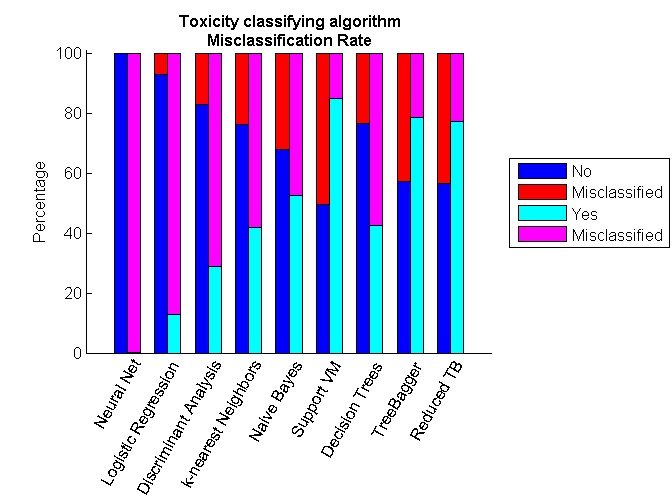
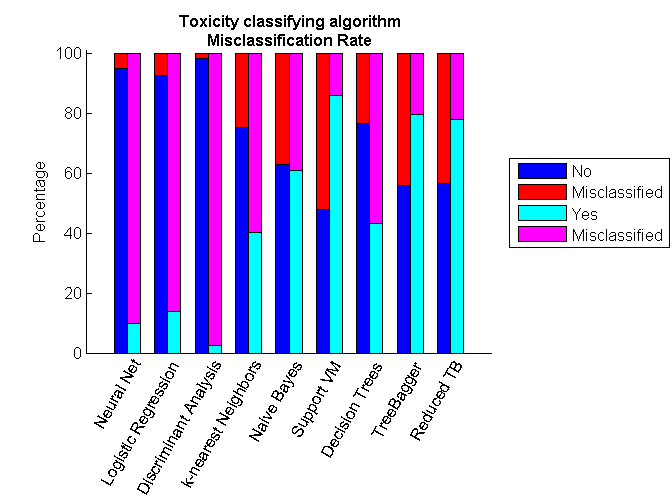
new predictors

diff --git a/TOXICITY_CLASSIFIER/html/toxicity_multiple_learning.html b/TOXICITY_CLASSIFIER/html/toxicity_multiple_learning.html
@@ -6,7 +6,7 @@
    <!--
 This HTML was auto-generated from MATLAB code.
 To make changes, update the MATLAB code and republish this document.
-      --><title>Machine Learning for links toxicity assessment</title><meta name="generator" content="MATLAB 8.3"><link rel="schema.DC" href="http://purl.org/dc/elements/1.1/"><meta name="DC.date" content="2014-11-03"><meta name="DC.source" content="toxicity_multiple_learning.m"><style type="text/css">
+      --><title>Machine Learning for links toxicity assessment</title><meta name="generator" content="MATLAB 8.3"><link rel="schema.DC" href="http://purl.org/dc/elements/1.1/"><meta name="DC.date" content="2014-11-04"><meta name="DC.source" content="toxicity_multiple_learning.m"><style type="text/css">
 html,body,div,span,applet,object,iframe,h1,h2,h3,h4,h5,h6,p,blockquote,pre,a,abbr,acronym,address,big,cite,code,del,dfn,em,font,img,ins,kbd,q,s,samp,small,strike,strong,sub,sup,tt,var,b,u,i,center,dl,dt,dd,ol,ul,li,fieldset,form,label,legend,table,caption,tbody,tfoot,thead,tr,th,td{margin:0;padding:0;border:0;outline:0;font-size:100%;vertical-align:baseline;background:transparent}body{line-height:1}ol,ul{list-style:none}blockquote,q{quotes:none}blockquote:before,blockquote:after,q:before,q:after{content:'';content:none}:focus{outine:0}ins{text-decoration:none}del{text-decoration:line-through}table{border-collapse:collapse;border-spacing:0}
 
 html { min-height:100%; margin-bottom:1px; }
@@ -117,9 +117,9 @@ table td { padding:7px 5px; text-align:left; vertical-align:top; border:1px soli
     3736                           4.7295e+05               
        2                                    7               
 
-</pre><h2>Prepare the Data: Response and Predictors<a name="3"></a></h2><p>We can segregate the data into response and predictors. This will make it easier to call subsequent functions which expect the data in this format.</p><pre class="codeinput">X = [penguin.KeywordVolume penguin.KeywordCpc penguin.KeywordCompetition penguin.Pr penguin.Alexa penguin.RefPages penguin.RefDomains penguin.CitationFlow penguin.TrustFlow penguin.YesterdayPos penguin.ExactAnchorsRefDomains penguin.ExactAnchorsRefPages penguin.ContainingAnchorsRefDomains penguin.ContainingAnchorsRefPages];
+</pre><h2>Prepare the Data: Response and Predictors<a name="3"></a></h2><p>We can segregate the data into response and predictors. This will make it easier to call subsequent functions which expect the data in this format.</p><pre class="codeinput">X = [penguin.KeywordVolume penguin.KeywordCpc penguin.KeywordCompetition penguin.Pr penguin.RefPages penguin.RefDomains penguin.CitationFlow penguin.TrustFlow penguin.YesterdayPos penguin.ExactAnchorsRefDomains penguin.ExactAnchorsRefPages penguin.ContainingAnchorsRefDomains penguin.ContainingAnchorsRefPages];
 
-catPred={<span class="string">'KeywordVolume'</span> <span class="string">'KeywordCpc'</span> <span class="string">'KeywordCompetition'</span> <span class="string">'Pr'</span> <span class="string">'Alexa'</span> <span class="string">'RefPages'</span> <span class="string">'RefDomains'</span> <span class="string">'CitationFlow'</span> <span class="string">'TrustFlow'</span> <span class="string">'YesterdayPos'</span> <span class="string">'ExactAnchorsRefDomains'</span> <span class="string">'ExactAnchorsRefPages'</span> <span class="string">'ContainingAnchorsRefDomains'</span> <span class="string">'ContainingAnchorsRefPages'</span>};
+catPred={<span class="string">'KeywordVolume'</span> <span class="string">'KeywordCpc'</span> <span class="string">'KeywordCompetition'</span> <span class="string">'Pr'</span> <span class="string">'RefPages'</span> <span class="string">'RefDomains'</span> <span class="string">'CitationFlow'</span> <span class="string">'TrustFlow'</span> <span class="string">'YesterdayPos'</span> <span class="string">'ExactAnchorsRefDomains'</span> <span class="string">'ExactAnchorsRefPages'</span> <span class="string">'ContainingAnchorsRefDomains'</span> <span class="string">'ContainingAnchorsRefPages'</span>};
 
 <span class="comment">% output vector we try to forecast penguin.TodayPos penguin.Change penguin.Change_abs</span>
 <span class="comment">% this threshold is arbitrary ( a continuous classifier is done in another script )</span>
@@ -146,12 +146,12 @@ disp(<span class="string">'Test Set'</span>)
 tabulate(Ytest)
 </pre><pre class="codeoutput">Training Set
   Value    Count   Percent
-      0     8826     71.33%
-      1     3548     28.67%
+      0     9647     71.35%
+      1     3874     28.65%
 Test Set
   Value    Count   Percent
-      0     5913     71.69%
-      1     2335     28.31%
+      0     6499     72.11%
+      1     2514     27.89%
 </pre><h2>Tree performance on validating and training set<a name="5"></a></h2><pre class="codeinput">t = classregtree(Xtrain,Ytrain);
 <span class="comment">%  See tree</span>
 view(t)
@@ -175,20 +175,20 @@ C_tree = confusionmat(categorical(predY),categorical(Ytest));
 <span class="comment">% Examine the confusion matrix for each class as a percentage of the true class</span>
 C_tree = bsxfun(@rdivide,C_tree,sum(C_tree,2)) * 100 <span class="comment">%#ok&lt;*NOPTS&gt;</span>
 </pre><pre class="codeoutput">Full tree training set
-Tree, % Good classified rate on set  : 92.5327
+Tree, % Good classified rate on set  : 92.4858
 
 C_tree =
 
-   95.7398    4.2602
-   14.8822   85.1178
+   96.0222    3.9778
+   15.5164   84.4836
 
 Full tree validating set
-Tree, % Good classified rate on set  : 66.4161
+Tree, % Good classified rate on set  : 66.5039
 
 C_tree =
 
-   77.7405   22.2595
-   58.4204   41.5796
+   78.0374   21.9626
+   58.9954   41.0046
 
 </pre><img vspace="5" hspace="5" src="toxicity_multiple_learning_01.png" alt=""> <h2>Neural Networks<a name="6"></a></h2><p>Neural Network Toolbox supports supervised learning with feedforward, radial basis, and dynamic networks. It supports both classification and regression algorithms. It also supports unsupervised learning with self-organizing maps and competitive layers.</p><p>One can make use of the interactive tools to setup, train and validate a neural network. It is then possible to auto-generate the code for the purpose of automation. In this example, the auto-generated code has been updated to utilize a pool of workers, if available. This is achieved by simply setting the <i>useParallel</i> flag while making a call to <tt>train</tt>.</p><pre class="language-matlab">[net,~] = train(net,inputs,targets,<span class="string">'useParallel'</span>,<span class="string">'yes'</span>);
 </pre><p>If a GPU is available, it may be utilized by setting the <i>useGPU</i> flag.</p><p>The trained network is used to make a prediction on the test data and confusion matrix is generated for comparison with other techniques.</p><pre class="codeinput"><span class="comment">% Use modified autogenerated code to train the network</span>
@@ -206,8 +206,8 @@ C_nn = bsxfun(@rdivide,C_nn,sum(C_nn,2)) * 100 <span class="comment">%#ok&lt;*NO
 
 C_nn =
 
-   99.9154    0.0846
-   99.9572    0.0428
+   94.9531    5.0469
+   90.2546    9.7454
 
 </pre><img vspace="5" hspace="5" src="toxicity_multiple_learning_02.png" alt=""> <h2>Generalized Linear Model - Logistic Regression<a name="7"></a></h2><p>In this example, a logistic regression model is leveraged. Response may follow normal, binomial, Poisson, gamma, or inverse Gaussian distribution.</p><p>Since the response in this data set is binary, binomial distribution is suitable.</p><pre class="codeinput"><span class="comment">% Train the classifier</span>
 glm = GeneralizedLinearModel.fit(Xtrain,Ytrain,<span class="string">'linear'</span>,<span class="string">'Distribution'</span>,<span class="string">'binomial'</span>,<span class="string">'link'</span>,<span class="string">'logit'</span>);
@@ -223,8 +223,8 @@ C_glm = bsxfun(@rdivide,C_glm,sum(C_glm,2)) * 100
 </pre><pre class="codeoutput">
 C_glm =
 
-   92.9816    7.0184
-   87.2805   12.7195
+   92.6450    7.3550
+   86.2371   13.7629
 
 </pre><h2>Discriminant Analysis<a name="8"></a></h2><p>Discriminant analysis is a classification method. It assumes that different classes generate data based on different Gaussian distributions. Linear discriminant analysis is also known as the Fisher discriminant.</p><p>Here, a quadratic discriminant classifier is used.</p><pre class="codeinput"><span class="comment">% Train the classifier</span>
 da = ClassificationDiscriminant.fit(Xtrain,Ytrain,<span class="string">'discrimType'</span>,<span class="string">'quadratic'</span>);
@@ -239,8 +239,8 @@ C_da = bsxfun(@rdivide,C_da,sum(C_da,2)) * 100
 </pre><pre class="codeoutput">
 C_da =
 
-   82.9866   17.0134
-   71.0064   28.9936
+   98.1228    1.8772
+   97.4543    2.5457
 
 </pre><h2>Classification Using Nearest Neighbors<a name="9"></a></h2><p>Categorizing query points based on their distance to points in a training dataset can be a simple yet effective way of classifying new points. Various distance metrics such as euclidean, correlation, hamming, mahalonobis or your own distance metric may be used.</p><pre class="codeinput"><span class="comment">% Train the classifier</span>
 knn = ClassificationKNN.fit(Xtrain,Ytrain,<span class="string">'Distance'</span>,<span class="string">'seuclidean'</span>);
@@ -255,8 +255,8 @@ C_knn = bsxfun(@rdivide,C_knn,sum(C_knn,2)) * 100
 </pre><pre class="codeoutput">
 C_knn =
 
-   76.2388   23.7612
-   58.2441   41.7559
+   75.2885   24.7115
+   59.8250   40.1750
 
 </pre><h2>Naive Bayes Classification<a name="10"></a></h2><p>Naive Bayes classification is based on estimating P(X|Y), the probability or probability density of features X given class Y. The Naive Bayes classification object provides support for normal (Gaussian), kernel, multinomial, and multivariate multinomial distributions</p><pre class="codeinput"><span class="comment">% The multivariate multinomial distribution (_mvmn_) is appropriate for</span>
 <span class="comment">% categorical features</span>
@@ -273,8 +273,8 @@ C_nb = bsxfun(@rdivide,C_nb,sum(C_nb,2)) * 100
 </pre><pre class="codeoutput">
 C_nb =
 
-   67.7829   32.2171
-   47.4090   52.5910
+   62.8097   37.1903
+   39.1806   60.8194
 
 </pre><h2>Support Vector Machines<a name="11"></a></h2><p>Support vector machine (SVM) is supported for binary response variables. An SVM classifies data by finding the best hyperplane that separates all data points of one class from those of the other class.</p><pre class="codeinput">opts = statset(<span class="string">'MaxIter'</span>,30000);
 <span class="comment">% Train the classifier</span>
@@ -288,8 +288,8 @@ C_svm = bsxfun(@rdivide,C_svm,sum(C_svm,2)) * 100
 </pre><pre class="codeoutput">
 C_svm =
 
-   49.3996   50.6004
-   15.0749   84.9251
+   47.9305   52.0695
+   14.0811   85.9189
 
 </pre><h2>Decision Trees<a name="12"></a></h2><p>Classification trees and regression trees are two kinds of decision trees. A decision tree is a flow-chart like structure in which internal node represents test on an attribute, each branch represents outcome of test and each leaf node represents a response (decision taken after computing all attributes). Classification trees give responses that are nominal, such as 'true' or 'false'. Regression trees give numeric responses.</p><pre class="codeinput">tic
 <span class="comment">% Train the classifier</span>
@@ -303,12 +303,12 @@ Y_t = t.predict(Xtest);
 C_t = confusionmat(categorical(Ytest),categorical(Y_t));
 <span class="comment">% Examine the confusion matrix for each class as a percentage of the true class</span>
 C_t = bsxfun(@rdivide,C_t,sum(C_t,2)) * 100
-</pre><pre class="codeoutput">Elapsed time is 0.528950 seconds.
+</pre><pre class="codeoutput">Elapsed time is 0.505899 seconds.
 
 C_t =
 
-   76.6109   23.3891
-   57.5589   42.4411
+   76.3502   23.6498
+   56.7224   43.2776
 
 </pre><h2>Ensemble Learning: TreeBagger<a name="13"></a></h2><p>Bagging stands for bootstrap aggregation. Every tree in the ensemble is grown on an independently drawn sample of input data. To compute prediction for the ensemble of trees, TreeBagger takes an average of predictions from individual trees (for regression) or takes votes from individual trees (for classification). Ensemble techniques such as bagging combine many weak learners to produce a strong learner.</p><p>From a marketing perspective, as we are creating this predictive model, it may be more important for us to classify <b><i>yes</i></b> correctly than a <b><i>no</i></b>. If that is the case, we can include our opinion using the <i>cost</i> matrix. Here, <i>cost</i> matrix specifies that it is 5 times more costly to classify a <b><i>yes</i></b> as a <b><i>no</i></b>.</p><pre class="codeinput"><span class="comment">% Cost of misclassification</span>
 cost = [0 1
@@ -328,8 +328,8 @@ C_tb = bsxfun(@rdivide,C_tb,sum(C_tb,2)) * 100
 </pre><pre class="codeoutput">
 C_tb =
 
-   57.2637   42.7363
-   21.3704   78.6296
+   55.9163   44.0837
+   20.5251   79.4749
 
 </pre><h2>Compare Results<a name="14"></a></h2><p>This visualization function is making use of a couple files downloaded from <a href="http://www.mathworks.com/matlabcentral/">MATLAB Central</a>, the user community websibte. We are leveraging social computing along the way to help us in our effort.</p><pre class="codeinput">Cmat = [C_nn C_glm C_da C_knn C_nb C_svm C_t C_tb];
 labels = {<span class="string">'Neural Net '</span>, <span class="string">'Logistic Regression '</span>, <span class="string">'Discriminant Analysis '</span>,<span class="keyword">...</span>
@@ -364,34 +364,40 @@ disp(<span class="string">'Included features:'</span>);
 disp(catPred(fs)');
 disp([<span class="string">'Percentage of predictors kept : '</span> num2str(sum(fs)./length(fs)*100) <span class="string">'%'</span>]);
 </pre><pre class="codeoutput">Start forward sequential feature selection:
-Initial columns included:  2 3 10 11 13 
+Initial columns included:  1 2 3 9 12 
 Columns that can not be included:  none
-Step 1, used initial columns, criterion value 0.000566851
-Step 2, added column 5, criterion value 0.000538041
-Step 3, added column 7, criterion value 0.00052648
-Step 4, added column 9, criterion value 0.000520938
-Final columns included:  2 3 5 7 9 10 11 13 
+Step 1, used initial columns, criterion value 0.000511759
+Step 2, added column 11, criterion value 0.000502644
+Step 3, added column 13, criterion value 0.000494243
+Step 4, added column 5, criterion value 0.000489064
+Final columns included:  1 2 3 5 9 11 12 13 
 Start forward sequential feature selection:
-Initial columns included:  2 3 10 11 13 
+Initial columns included:  1 2 3 9 12 
 Columns that can not be included:  none
-Step 1, used initial columns, criterion value 0.000556259
-Step 2, added column 5, criterion value 0.000543932
-Step 3, added column 7, criterion value 0.000530116
-Step 4, added column 12, criterion value 0.000521046
-Step 5, added column 14, criterion value 0.000519754
-Final columns included:  2 3 5 7 10 11 12 13 14 
+Step 1, used initial columns, criterion value 0.00050942
+Step 2, added column 4, criterion value 0.000495904
+Step 3, added column 6, criterion value 0.000487469
+Step 4, added column 10, criterion value 0.000485233
+Step 5, added column 11, criterion value 0.000483666
+Step 6, added column 5, criterion value 0.00048251
+Step 7, added column 7, criterion value 0.000481991
+Step 8, added column 8, criterion value 0.000481276
+Final columns included:  1 2 3 4 5 6 7 8 9 10 11 12 
 Included features:
+    'KeywordVolume'
     'KeywordCpc'
     'KeywordCompetition'
-    'Alexa'
+    'Pr'
+    'RefPages'
     'RefDomains'
+    'CitationFlow'
+    'TrustFlow'
     'YesterdayPos'
     'ExactAnchorsRefDomains'
     'ExactAnchorsRefPages'
     'ContainingAnchorsRefDomains'
-    'ContainingAnchorsRefPages'
 
-Percentage of predictors kept : 64.2857%
+Percentage of predictors kept : 92.3077%
 </pre><h2>TreeBagger with Reduced Feature Set<a name="19"></a></h2><pre class="codeinput">opts = statset(<span class="string">'UseParallel'</span>,true);
 tb_r = TreeBagger(120, Xtrain(:,fs),Ytrain,<span class="string">'method'</span>,<span class="string">'classification'</span>,<span class="string">'PredictorNames'</span>,catPred(:,fs),<span class="string">'Options'</span>,opts,<span class="string">'cost'</span>,cost);
 [Y_tb_r, classifScore] = tb_r.predict(Xtest(:,fs));
@@ -401,8 +407,8 @@ C_tb_r = bsxfun(@rdivide,C_tb_r,sum(C_tb_r,2)) * 100
 </pre><pre class="codeoutput">
 C_tb_r =
 
-   56.5872   43.4128
-   22.8266   77.1734
+   56.6241   43.3759
+   22.1957   77.8043
 
 </pre><h2>Compare Results<a name="20"></a></h2><pre class="codeinput">Cmat = [C_nn C_glm C_da C_knn C_nb C_svm C_t C_tb C_tb_r];
 labels = {<span class="string">'Neural Net '</span>, <span class="string">'Logistic Regression '</span>, <span class="string">'Discriminant Analysis '</span>,<span class="keyword">...</span>
@@ -443,9 +449,9 @@ disp(penguin(1:5,:));
 % We can segregate the data into response and predictors. This will make it
 % easier to call subsequent functions which expect the data in this format.
 
-X = [penguin.KeywordVolume penguin.KeywordCpc penguin.KeywordCompetition penguin.Pr penguin.Alexa penguin.RefPages penguin.RefDomains penguin.CitationFlow penguin.TrustFlow penguin.YesterdayPos penguin.ExactAnchorsRefDomains penguin.ExactAnchorsRefPages penguin.ContainingAnchorsRefDomains penguin.ContainingAnchorsRefPages];
+X = [penguin.KeywordVolume penguin.KeywordCpc penguin.KeywordCompetition penguin.Pr penguin.RefPages penguin.RefDomains penguin.CitationFlow penguin.TrustFlow penguin.YesterdayPos penguin.ExactAnchorsRefDomains penguin.ExactAnchorsRefPages penguin.ContainingAnchorsRefDomains penguin.ContainingAnchorsRefPages];
 
-catPred={'KeywordVolume' 'KeywordCpc' 'KeywordCompetition' 'Pr' 'Alexa' 'RefPages' 'RefDomains' 'CitationFlow' 'TrustFlow' 'YesterdayPos' 'ExactAnchorsRefDomains' 'ExactAnchorsRefPages' 'ContainingAnchorsRefDomains' 'ContainingAnchorsRefPages'};
+catPred={'KeywordVolume' 'KeywordCpc' 'KeywordCompetition' 'Pr' 'RefPages' 'RefDomains' 'CitationFlow' 'TrustFlow' 'YesterdayPos' 'ExactAnchorsRefDomains' 'ExactAnchorsRefPages' 'ContainingAnchorsRefDomains' 'ContainingAnchorsRefPages'};
 
 % output vector we try to forecast penguin.TodayPos penguin.Change penguin.Change_abs
 % this threshold is arbitrary ( a continuous classifier is done in another script )

diff --git a/TOXICITY_CLASSIFIER/toxicity_multiple_learning.m b/TOXICITY_CLASSIFIER/toxicity_multiple_learning.m
@@ -20,9 +20,9 @@ disp(penguin(1:5,:));
 % We can segregate the data into response and predictors. This will make it
 % easier to call subsequent functions which expect the data in this format.
 
-X = [penguin.KeywordVolume penguin.KeywordCpc penguin.KeywordCompetition penguin.Pr penguin.Alexa penguin.RefPages penguin.RefDomains penguin.CitationFlow penguin.TrustFlow penguin.YesterdayPos penguin.ExactAnchorsRefDomains penguin.ExactAnchorsRefPages penguin.ContainingAnchorsRefDomains penguin.ContainingAnchorsRefPages];
+X = [penguin.KeywordVolume penguin.KeywordCpc penguin.KeywordCompetition penguin.Pr penguin.RefPages penguin.RefDomains penguin.CitationFlow penguin.TrustFlow penguin.YesterdayPos penguin.ExactAnchorsRefDomains penguin.ExactAnchorsRefPages penguin.ContainingAnchorsRefDomains penguin.ContainingAnchorsRefPages];
 
-catPred={'KeywordVolume' 'KeywordCpc' 'KeywordCompetition' 'Pr' 'Alexa' 'RefPages' 'RefDomains' 'CitationFlow' 'TrustFlow' 'YesterdayPos' 'ExactAnchorsRefDomains' 'ExactAnchorsRefPages' 'ContainingAnchorsRefDomains' 'ContainingAnchorsRefPages'};
+catPred={'KeywordVolume' 'KeywordCpc' 'KeywordCompetition' 'Pr' 'RefPages' 'RefDomains' 'CitationFlow' 'TrustFlow' 'YesterdayPos' 'ExactAnchorsRefDomains' 'ExactAnchorsRefPages' 'ContainingAnchorsRefDomains' 'ContainingAnchorsRefPages'};
 
 % output vector we try to forecast penguin.TodayPos penguin.Change penguin.Change_abs
 % this threshold is arbitrary ( a continuous classifier is done in another script )
